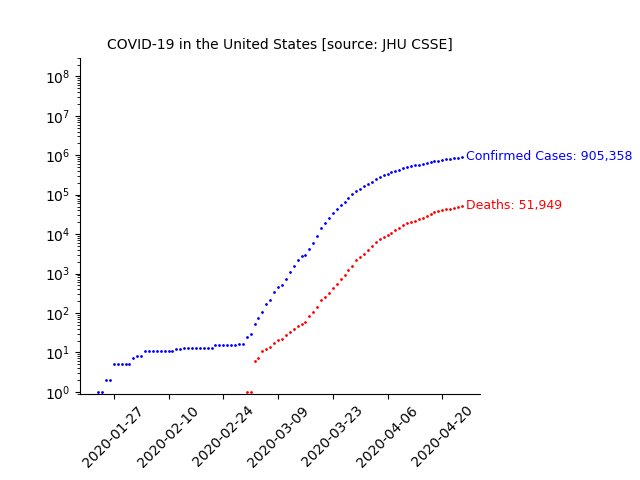
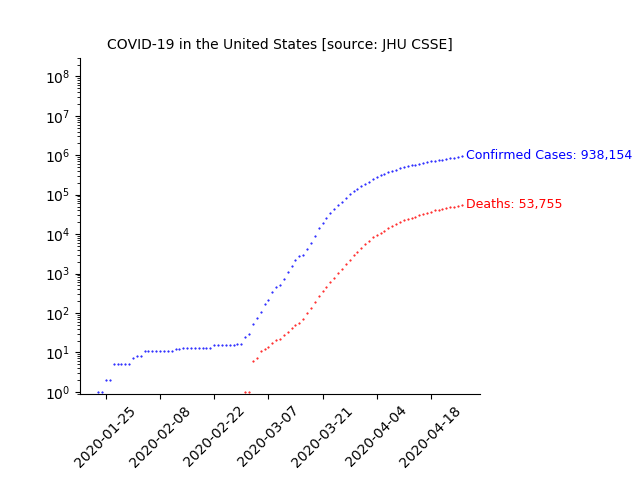
2020-04-25 updates

diff --git a/plot_us.py b/plot_us.py
@@ -19,11 +19,11 @@ for ii in us_confirmed.columns[11:]:
 # plot country comparisons
 fig, ax = plt.subplots()
 
-plt.semilogy(dates[np.where(cases_us>0)[0][0]:], cases_us[cases_us>0], 'b.', ms=2)
+plt.semilogy(dates[np.where(cases_us>0)[0][0]:], cases_us[cases_us>0], 'b.', ms=1)
 ax.annotate('Confirmed Cases: {:,}'.format(cases_us[-1]), (dates[-1]+dt.timedelta(days=1),
     0.85*cases_us[-1]), color='blue', fontsize=9)
 
-plt.semilogy(dates[np.where(deaths_us>0)[0][0]:], deaths_us[deaths_us>0], 'r.', ms=2)
+plt.semilogy(dates[np.where(deaths_us>0)[0][0]:], deaths_us[deaths_us>0], 'r.', ms=1)
 ax.annotate('Deaths: {:,}'.format(deaths_us[-1]), (dates[-1]+dt.timedelta(days=1),
     0.85*deaths_us[-1]), color='red', fontsize=9)
 
